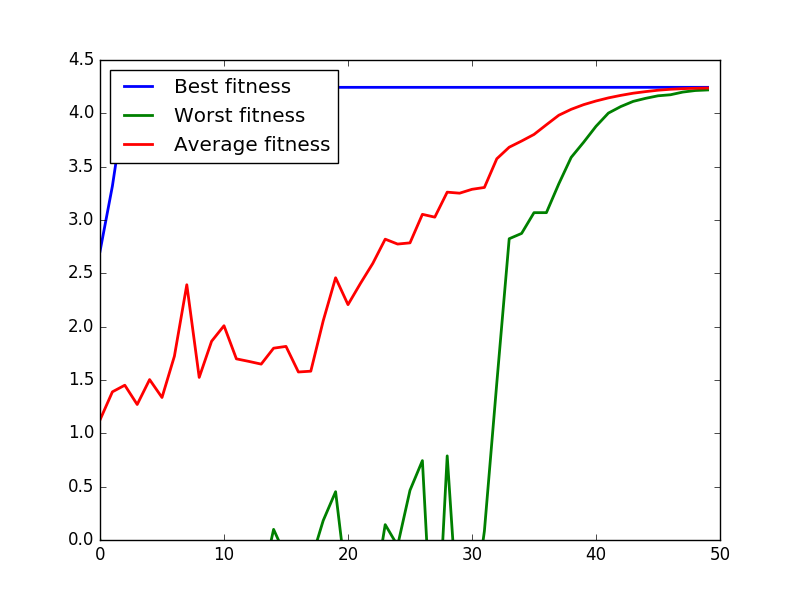
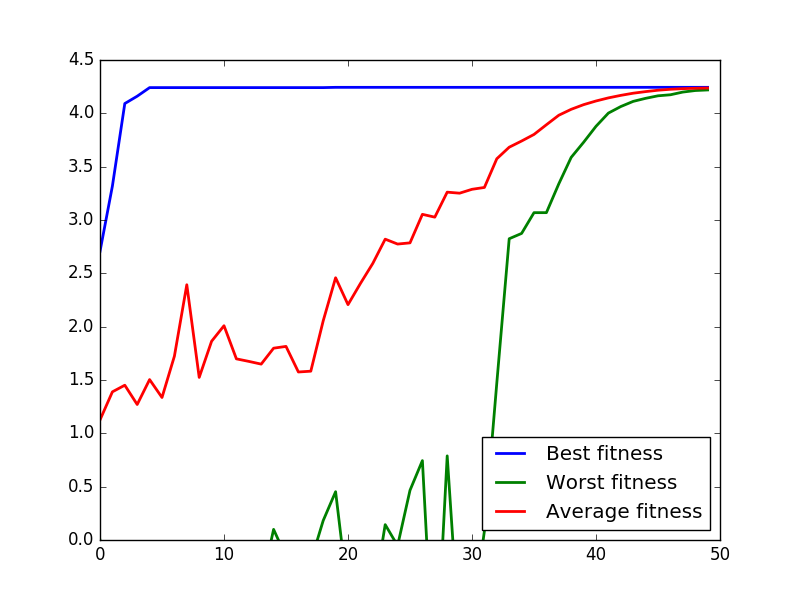
[IA707] Correcting figures legend position

Changed region(s): [[0.125, 0.09, 0.4375, 0.3], [0.5938, 0.72, 0.9062, 0.9]]

diff --git a/list1/plot_finess.py b/list1/plot_finess.py
@@ -6,7 +6,7 @@ import matplotlib.pyplot as plt
 import glob 
 
 def main():
-    files = glob.glob('/home/heitor/Repo/IA707/list1/ex3/list1_ex3_fitness/fitness_evol*')
+    files = glob.glob('./ex3/list1_ex3_fitness/itens_ab/fitness_evol*')
     i = 1
     for file in files:
     	print 'Saving figure from file: ', file
@@ -18,7 +18,7 @@ def main():
         plt.setp(fit_plot1, linewidth=2)
         plt.setp(fit_plot2, linewidth=2)
         plt.setp(fit_plot3, linewidth=2)
-        plt.legend(loc=2)
+        plt.legend(loc=0)
         plt.axis([0, fitness.shape[0], 0, 4.5])
         plt.savefig('fitness_eval' + str(i))
         plt.clf()
